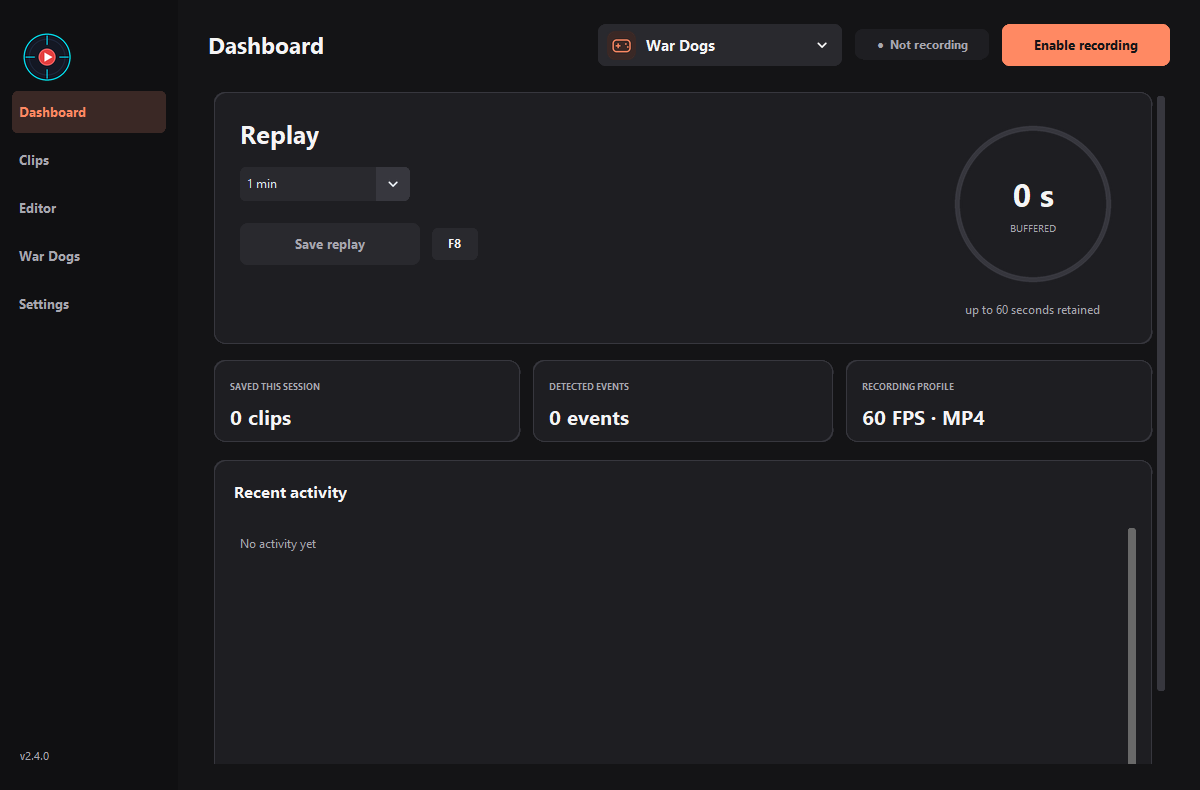
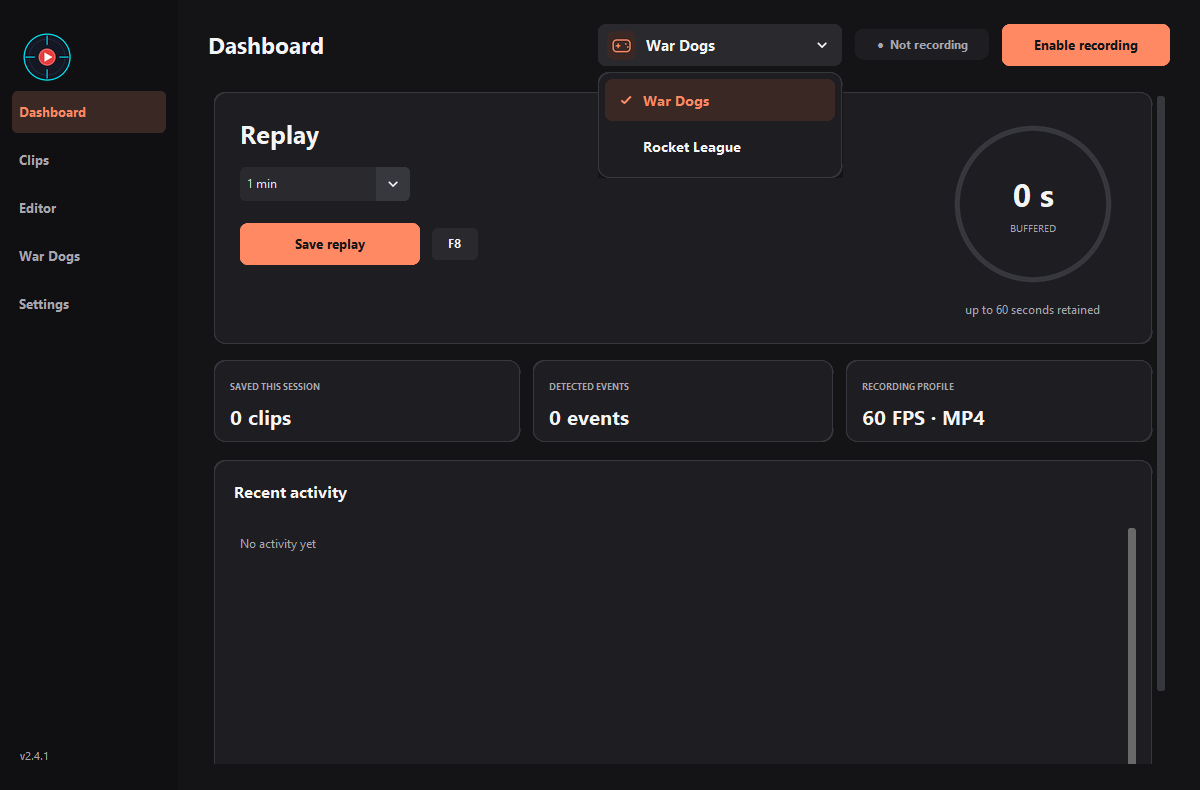
Redesign the game picker for Frap Grab 2.4.1

Changed region(s): [[0.4933, 0.0911, 0.7092, 0.1519], [0.185, 0.2734, 0.37, 0.3342], [0.5242, 0.1823, 0.6167, 0.2127]]

diff --git a/gui/widgets.py b/gui/widgets.py
@@ -5,7 +5,7 @@ from tkinter import font as tkfont
 import customtkinter as ctk
 from PIL import Image,ImageDraw,ImageTk
 from .images import AppImage
-from .palette import ACCENT, ACTIVE, BORDER, CARD, MUTED, RAISED, TEXT
+from .palette import ACCENT, ACTIVE, BG, BORDER, CARD, MUTED, RAISED, TEXT
 
 
 def chevron_image(size,color):
@@ -66,13 +66,45 @@ class SmoothOptionMenu(ctk.CTkOptionMenu):
             self._open_dropdown_menu()
         return "break"
 
-    def _open_dropdown_menu(self):
+    def _create_popup(self):
         popup = tk.Toplevel(self)
         self._popup = popup
         self._previous_grab = self.grab_current()
         popup.withdraw()
         popup.overrideredirect(True)
         popup.transient(self.winfo_toplevel())
+
+        def click(event):
+            if not (popup.winfo_rootx() <= event.x_root < popup.winfo_rootx() + popup.winfo_width()
+                    and popup.winfo_rooty() <= event.y_root < popup.winfo_rooty() + popup.winfo_height()):
+                self._close_popup()
+                return "break"
+
+        def cancel(event=None):
+            self._close_popup()
+            self._canvas.focus_set()
+            return "break"
+
+        def focus_lost(event):
+            def close_if_unfocused():
+                if self._popup is popup:
+                    focus = popup.focus_get()
+                    if not focus or focus.winfo_toplevel() != popup:
+                        self._close_popup()
+            popup.after_idle(close_if_unfocused)
+
+        popup.bind("<ButtonPress-1>", click, add="+")
+        popup.bind("<Escape>", cancel)
+        popup.bind("<FocusOut>", focus_lost, add="+")
+        return popup
+
+    def _choose_popup_value(self, value):
+        self._close_popup()
+        self._canvas.focus_set()
+        self._dropdown_callback(value)
+
+    def _open_dropdown_menu(self):
+        popup = self._create_popup()
         popup.configure(bg=CARD, highlightbackground=BORDER, highlightthickness=1)
         row_font = tkfont.Font(root=popup, family="Segoe UI", size=-round(self._apply_widget_scaling(16)))
         current = self._current_value
@@ -100,39 +132,18 @@ class SmoothOptionMenu(ctk.CTkOptionMenu):
         def choose(event=None):
             selected_rows = listing.curselection()
             if selected_rows:
-                value = values[selected_rows[0]]
-                self._close_popup()
-                self._canvas.focus_set()
-                self._dropdown_callback(value)
+                self._choose_popup_value(values[selected_rows[0]])
             return "break"
 
-        def click(event):
-            if not (popup.winfo_rootx() <= event.x_root < popup.winfo_rootx() + popup.winfo_width()
-                    and popup.winfo_rooty() <= event.y_root < popup.winfo_rooty() + popup.winfo_height()):
-                self._close_popup()
-                return "break"
-
-        def cancel(event=None):
-            self._close_popup()
-            self._canvas.focus_set()
-            return "break"
-
-        def focus_lost(event):
-            def close_if_unfocused():
-                if self._popup is popup:
-                    focus = popup.focus_get()
-                    if not focus or focus.winfo_toplevel() != popup:
-                        self._close_popup()
-            popup.after_idle(close_if_unfocused)
-
-        popup.bind("<ButtonPress-1>", click, add="+")
-        popup.bind("<Escape>", cancel)
-        popup.bind("<FocusOut>", focus_lost, add="+")
         listing.bind("<ButtonRelease-1>", choose)
         listing.bind("<Return>", choose)
         listing.bind("<space>", choose)
-        popup.update_idletasks()
         width = max(self.winfo_width(), max(map(row_font.measure, rows)) + 2 * padx + 19)
+        self._show_popup(popup, width, listing)
+
+    def _show_popup(self, popup, width, focus):
+        popup.update_idletasks()
+        padx = round(self._apply_widget_scaling(6))
         height = popup.winfo_reqheight()
         x = self.winfo_rootx()
         y = self.winfo_rooty() + self.winfo_height() + padx
@@ -147,7 +158,7 @@ class SmoothOptionMenu(ctk.CTkOptionMenu):
         popup.lift()
         popup.update_idletasks()
         popup.grab_set()
-        listing.focus_set()
+        focus.focus_set()
 
     def _draw(self,*args,**kwargs):
         super()._draw(*args,**kwargs)
@@ -172,6 +183,68 @@ class GameSelector(SmoothOptionMenu):
         super().__init__(master,width=245,height=42,corner_radius=8,
             fg_color=RAISED,button_color=RAISED,button_hover_color=BORDER,
             text_color=TEXT,font=ctk.CTkFont('Segoe UI',15,weight='bold'),**kwargs)
+
+    def _open_dropdown_menu(self):
+        popup = self._create_popup()
+        popup.configure(bg=BG)
+        try:
+            popup.attributes("-transparentcolor", BG)
+        except tk.TclError:
+            pass
+        panel = ctk.CTkFrame(popup, bg_color=BG, fg_color=CARD, border_color=BORDER,
+                             border_width=1, corner_radius=12)
+        panel.pack(fill="both", expand=True)
+        values = tuple(self._values)
+        row_font = ctk.CTkFont("Segoe UI", 14, weight="bold")
+        row_height = 39
+        tick = Image.new("RGBA", (80, 80))
+        ImageDraw.Draw(tick).line(((17, 41), (32, 55), (64, 22)), fill=ACCENT, width=10, joint="curve")
+        selected_icon = AppImage(popup, tick, size=(16, 16))
+        empty_icon = AppImage(popup, Image.new("RGBA", (80, 80)), size=(16, 16))
+        if len(values) > 6:
+            body = ctk.CTkScrollableFrame(panel, height=6 * row_height, fg_color=CARD,
+                                          scrollbar_button_color=BORDER, scrollbar_button_hover_color=MUTED)
+        else:
+            body = ctk.CTkFrame(panel, fg_color="transparent")
+        body.pack(fill="x", padx=7, pady=7)
+
+        selected = values.index(self._current_value) if self._current_value in values else 0
+        focused = selected
+        buttons = []
+        for index, value in enumerate(values):
+            row = ctk.CTkButton(body, text=value, font=row_font, anchor="w",
+                                image=selected_icon if index == selected else empty_icon,
+                                height=row_height - 3, corner_radius=8, border_spacing=11,
+                                fg_color=ACTIVE if index == selected else CARD,
+                                hover_color=RAISED, text_color=ACCENT if index == selected else TEXT,
+                                command=lambda value=value: self._choose_popup_value(value))
+            row.pack(fill="x", pady=(0, 3))
+            buttons.append(row)
+
+        def move(direction):
+            nonlocal focused
+            buttons[focused].configure(fg_color=ACTIVE if focused == selected else CARD)
+            focused = (focused + direction) % len(values)
+            buttons[focused].configure(fg_color=ACTIVE if focused == selected else RAISED)
+            if len(values) > 6:
+                body._parent_canvas.yview_moveto(max(0, focused - 2) / len(values))
+            return "break"
+
+        def choose(_event):
+            self._choose_popup_value(values[focused])
+            return "break"
+
+        popup.bind("<Up>", lambda _: move(-1))
+        popup.bind("<Down>", lambda _: move(1))
+        popup.bind("<Return>", choose)
+        popup.bind("<space>", choose)
+        font_metrics = tkfont.Font(root=popup, family="Segoe UI", weight="bold",
+                                   size=-round(self._apply_widget_scaling(14)))
+        width = max(self.winfo_width(), max(map(font_metrics.measure, values)) +
+                    round(self._apply_widget_scaling(72)))
+        self._show_popup(popup, width, popup)
+        if len(values) > 6:
+            body._parent_canvas.yview_moveto(max(0, selected - 2) / len(values))
 
     def _create_grid(self):
         super()._create_grid()

diff --git a/core/updater.py b/core/updater.py
@@ -11,7 +11,7 @@ from packaging.version import Version,InvalidVersion
 from .config import CONFIG_DIR
 from .media import MediaCancelled
 
-CURRENT_VERSION="2.4.0"
+CURRENT_VERSION="2.4.1"
 
 _NOTES_LANGUAGE = re.compile(r"^#{1,6}[ \t]+(Polski|English|PL|EN)[ \t]*\r?$", re.IGNORECASE | re.MULTILINE)
 

diff --git a/README.md b/README.md
@@ -3,7 +3,7 @@
 A Windows game recorder and highlight editor.
 Save instant replays, automatic kill/assist clips and voice highlights.
 
-[Download installer (.exe)](https://github.com/kkeisyr11/FrapGrab/releases/latest/download/Frap_Grab_Setup_2.4.0.exe) · [Guide](README.en.md)
+[Download installer (.exe)](https://github.com/kkeisyr11/FrapGrab/releases/latest/download/Frap_Grab_Setup_2.4.1.exe) · [Guide](README.en.md)
 
 ![Frap Grab dashboard with War Dogs replay recording](docs/images/dashboard.png)
 
@@ -12,7 +12,7 @@ Save instant replays, automatic kill/assist clips and voice highlights.
 - Clips grouped by day, highlight editing and background music.
 - GPU recording on NVIDIA, AMD and Intel, with automatic encoder checks.
 
-## Supported games
+## Automatic clipping in the Windows installer
 
 - **War Dogs** — automatic clips for kills, assists, deaths and knockdowns, with replay analysis.
 - **Rocket League** (beta) — goals, assists, and saves through the official Stats API.

diff --git a/README.en.md b/README.en.md
@@ -1,6 +1,6 @@
 # User guide
 
-[Download for Windows](https://github.com/kkeisyr11/FrapGrab/releases/latest/download/Frap_Grab_Setup_2.4.0.exe) · [Releases](https://github.com/kkeisyr11/FrapGrab/releases) · [Home](README.md)
+[Download for Windows](https://github.com/kkeisyr11/FrapGrab/releases/latest/download/Frap_Grab_Setup_2.4.1.exe) · [Releases](https://github.com/kkeisyr11/FrapGrab/releases) · [Home](README.md)
 
 Windows 10/11, 64-bit. The installer includes the required media tools.
 
